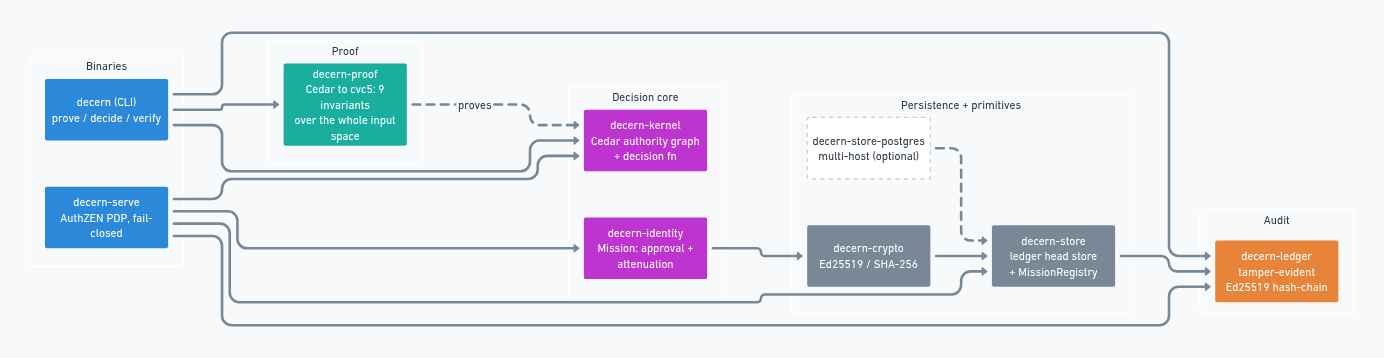
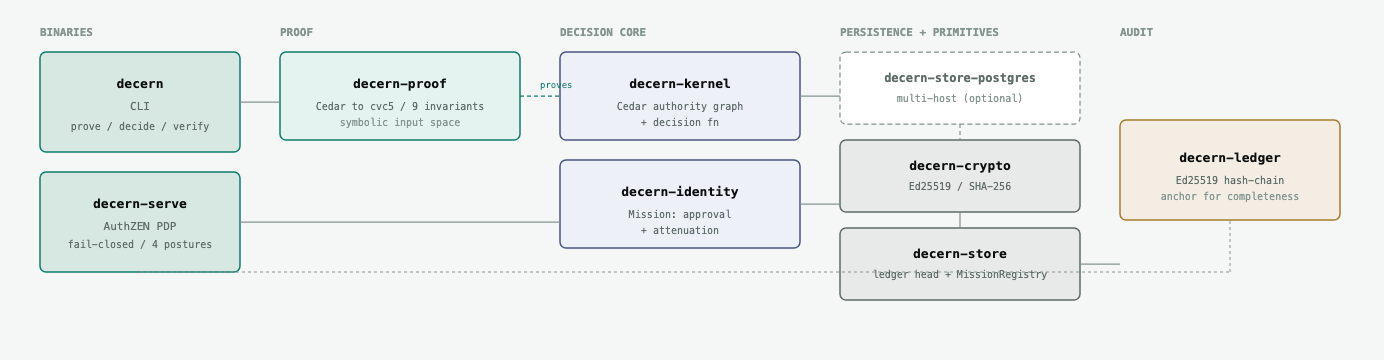
Ship the corrected diagrams, and stop the site overclaiming (#127)
* Ship the corrected diagrams, and stop the site overclaiming

The regenerated diagrams were sitting uncommitted, so README,
ARCHITECTURE.md and the site were all still serving the two-posture
versions from before signed-request, SPIFFE and caller binding landed. Both
PNGs go in, and so do the SVG sources they are drawn from -- commit abc5854
gave the architecture diagram an editable source for a reason, and an
untracked source is one stray checkout from being a hand-tuned PNG again.

The diagrams now show four postures, that one is required to start and two
is a startup failure, the 401/403 split with caller_mismatch and the
workload self-bind, that the nine invariants cover the model rather than
the server, and that a chain proves consistency while --anchor is what
detects a dropped tail. Alt text follows.

The website carried two claims the 0.3.0 notes contradict, in one hero
paragraph: safety rules checked against "every possible input", and that
anyone can verify "nothing was changed or removed". The first drops both
qualifiers -- the proofs are over the model's symbolic input space, with
two invariants reasoning over attributes the kernel derives before the
prover runs. The second is the anchor claim: a chain is internally
consistent, and detecting a dropped tail needs a commitment published
somewhere the operator does not control. Also fixed in the meta
description, which is what a search result quotes, and in two more places
in the body copy.
[…]

diff --git a/docs/index.html b/docs/index.html
@@ -12,7 +12,7 @@
   gtag('config', 'G-RZ3DJS6EF5');
 </script>
 <title>decern — proven authorization for agents</title>
-<meta name="description" content="A deterministic authorization kernel for agents, people and services. Nine safety invariants are machine-checked by cvc5 over every possible input; every decision is recorded in a tamper-evident, verifiable ledger. Pure Rust, Apache-2.0.">
+<meta name="description" content="A deterministic authorization kernel for agents, people and services. Nine safety invariants are machine-checked by cvc5 over the model's whole symbolic input space; every decision is recorded in a signed, hash-chained ledger anyone can verify. Pure Rust, Apache-2.0.">
 <meta name="author" content="Anivar A. Aravind">
 <link rel="canonical" href="https://decern.anivar.net/">
 <link rel="icon" type="image/svg+xml" href="img/decern-mark.svg">
@@ -185,7 +185,7 @@
         <hr style="border:0;border-top:1px solid #0E7C6B;width:32px;margin:18px 0 0">
         <h1 style="font:600 clamp(52px,8.5vw,82px)/0.98 'IBM Plex Mono',monospace;letter-spacing:-0.03em;color:#0C0F0E;margin:24px 0 0">decern</h1>
         <p style="font:500 clamp(25px,3.2vw,35px)/1.18 Newsreader,serif;letter-spacing:-0.01em;color:#0C0F0E;margin:24px 0 0;max-width:28ch;text-wrap:pretty">Decide what an agent, a person or a service is allowed to do. Keep proof of every answer.</p>
-        <p style="font:400 17px/1.62 'IBM Plex Sans',sans-serif;color:#5E6B67;margin:22px 0 0;max-width:60ch;text-wrap:pretty">Three things set it apart. A solver checks the safety rules against every possible input, instead of the handful a test file covers. Every answer goes into a signed, linked log, so anyone can check later that nothing was changed or removed — including people who don't trust whoever ran the server. And nothing gets decided for an unverified caller: the server refuses to start until it can name who is asking.</p>
+        <p style="font:400 17px/1.62 'IBM Plex Sans',sans-serif;color:#5E6B67;margin:22px 0 0;max-width:60ch;text-wrap:pretty">Three things set it apart. A solver checks the safety rules across the model's symbolic input space, instead of the handful a test file covers. Every answer goes into a signed, linked log, so anyone can check later that no record was altered — and, against a commitment you published elsewhere, that none was dropped. And nothing gets decided for an unverified caller: the server refuses to start until one of four postures can name who is asking.</p>
         <div style="display:flex;gap:12px;flex-wrap:wrap;margin-top:34px">
           <a href="https://github.com/anivar/decern" style="display:inline-flex;align-items:center;gap:10px;background:#0E7C6B;color:#FFFFFF;border:1px solid #0E7C6B;padding:12px 20px;font:500 14px/1 'IBM Plex Sans',sans-serif;text-decoration:none" style-hover="background:#0A5B4E;border-color:#0A5B4E"><svg width="17" height="17" viewBox="0 0 16 16" fill="currentColor" aria-hidden="true" style="display:block"><path d="M8 0C3.58 0 0 3.58 0 8c0 3.54 2.29 6.53 5.47 7.59.4.07.55-.17.55-.38 0-.19-.01-.82-.01-1.49-2.01.37-2.53-.49-2.69-.94-.09-.23-.48-.94-.82-1.13-.28-.15-.68-.52-.01-.53.63-.01 1.08.58 1.23.82.72 1.21 1.87.87 2.33.66.07-.52.28-.87.51-1.07-1.78-.2-3.64-.89-3.64-3.95 0-.87.31-1.59.82-2.15-.08-.2-.36-1.02.08-2.12 0 0 .67-.21 2.2.82a7.42 7.42 0 0 1 2-.27c.68 0 1.36.09 2 .27 1.53-1.04 2.2-.82 2.2-.82.44 1.1.16 1.92.08 2.12.51.56.82 1.27.82 2.15 0 3.07-1.87 3.75-3.65 3.95.29.25.54.73.54 1.48 0 1.07-.01 1.93-.01 2.2 0 .21.15.46.55.38A7.995 7.995 0 0 0 16 8c0-4.42-3.58-8-8-8Z"></path></svg>Contribute on GitHub</a>
           <a href="#contribute" style="display:inline-flex;align-items:center;background:transparent;color:#0C0F0E;border:1px solid #0C0F0E;padding:12px 20px;font:500 14px/1 'IBM Plex Sans',sans-serif;text-decoration:none" style-hover="background:#0C0F0E;color:#F5F7F6">Where to start</a>
@@ -258,7 +258,7 @@
           <article style="border:1px solid #0C0F0E;background:#FFFFFF;padding:32px">
             <p style="font:500 10px/1 'IBM Plex Mono',monospace;letter-spacing:0.14em;text-transform:uppercase;color:#0E7C6B;margin:0">01 · Proven, not tested</p>
             <h3 style="font:600 20px/1.3 'IBM Plex Sans',sans-serif;color:#0C0F0E;margin:16px 0 0">A solver checks every case, not a few</h3>
-            <p style="font:400 15px/1.62 'IBM Plex Sans',sans-serif;color:#5E6B67;margin:14px 0 0;text-wrap:pretty">An answer depends on four things only: who is asking, what authority exists, the policy, and the time. Because it is that contained, cvc5 can search every possible input for one that breaks a rule. Nine rules are checked this way. Green means it found nothing.</p>
+            <p style="font:400 15px/1.62 'IBM Plex Sans',sans-serif;color:#5E6B67;margin:14px 0 0;text-wrap:pretty">An answer depends on four things only: who is asking, what authority exists, the policy, and the time. Because it is that contained, cvc5 can search the model's symbolic input space for one that breaks a rule. Nine rules are checked this way, over the policy rather than the running server. Green means it found nothing.</p>
             <hr style="border:0;border-top:1px solid #0E7C6B;width:32px;margin:26px 0 0">
             <p style="font:400 11px/1.6 'IBM Plex Mono',monospace;letter-spacing:0.04em;color:#849490;margin:14px 0 0">decern-proof · runs in <span style="color:#5E6B67">decern prove</span> and CI only, never on the request path</p>
           </article>
@@ -272,7 +272,7 @@
           <article style="border:1px solid #0C0F0E;background:#FFFFFF;padding:32px">
             <p style="font:500 10px/1 'IBM Plex Mono',monospace;letter-spacing:0.14em;text-transform:uppercase;color:#0E7C6B;margin:0">03 · Known, not assumed</p>
             <h3 style="font:600 20px/1.3 'IBM Plex Sans',sans-serif;color:#0C0F0E;margin:16px 0 0">Refuses to answer an unverified caller</h3>
-            <p style="font:400 15px/1.62 'IBM Plex Sans',sans-serif;color:#5E6B67;margin:14px 0 0;text-wrap:pretty">Before evaluating anything, decern-serve establishes who is asking — a valid bearer token, or a declared, authenticated front taking responsibility for what it asserts. There is no default identity, and no way to start the server without naming one. The verified caller is written onto the decision record itself, not inferred afterwards.</p>
+            <p style="font:400 15px/1.62 'IBM Plex Sans',sans-serif;color:#5E6B67;margin:14px 0 0;text-wrap:pretty">Before evaluating anything, decern-serve establishes who is asking — a bearer token, a signed request, a SPIFFE identity, or a declared authenticated front taking responsibility for what it asserts. There is no default identity, and no way to start the server without naming one. The two workload postures go further: unless exempted, such a caller may only name itself. The verified caller is written onto the decision record itself, not inferred afterwards.</p>
             <hr style="border:0;border-top:1px solid #0E7C6B;width:32px;margin:26px 0 0">
             <p style="font:400 11px/1.6 'IBM Plex Mono',monospace;letter-spacing:0.04em;color:#849490;margin:14px 0 0">decern-server · RFC 9068 bearer validation · asserted_by on every record</p>
           </article>
@@ -356,7 +356,7 @@
       <div style="border-top:1px solid #0C0F0E;padding-top:44px">
         <p style="font:500 12px/1 'IBM Plex Mono',monospace;letter-spacing:0.12em;text-transform:uppercase;color:#5E6B67;margin:0">Rules</p>
         <hr style="border:0;border-top:1px solid #0E7C6B;width:32px;margin:18px 0 0">
-        <h2 style="font:600 clamp(23px,2.7vw,31px)/1.24 'IBM Plex Sans',sans-serif;letter-spacing:-0.01em;color:#0C0F0E;margin:22px 0 0">Nine rules, checked against every possible input.</h2>
+        <h2 style="font:600 clamp(23px,2.7vw,31px)/1.24 'IBM Plex Sans',sans-serif;letter-spacing:-0.01em;color:#0C0F0E;margin:22px 0 0">Nine rules, checked across the model's symbolic input space.</h2>
         <p style="font:400 16px/1.64 'IBM Plex Sans',sans-serif;color:#5E6B67;margin:18px 0 0;max-width:64ch;text-wrap:pretty">Each line says exactly what the solver checked — never more.</p>
 
         <table style="width:100%;margin-top:34px;border-top:1px solid #0C0F0E">
@@ -416,7 +416,7 @@
           </div>
           <div style="border:1px solid #E1E7E4;background:#EDF3F1;padding:26px">
             <p style="font:500 10px/1 'IBM Plex Mono',monospace;letter-spacing:0.14em;text-transform:uppercase;color:#5E6B67;margin:0">What it does not prove</p>
-            <p style="font:400 14.5px/1.62 'IBM Plex Sans',sans-serif;color:#0C0F0E;margin:14px 0 0;text-wrap:pretty">cvc5 proves the kernel's rules. It cannot tell whether your policy says what you meant, and it is never a claim that a deployment is secure — the deciding endpoints validate RFC 9068 bearer tokens when configured, or run behind a declared authenticating front; the server refuses to start with neither stated. Where a rule leans on a derived value, that part is ordinary tested Rust and is written up as such. The full boundary lives in the repository, under <a href="https://github.com/anivar/decern#known-limitations">known limitations ↗</a>.</p>
+            <p style="font:400 14.5px/1.62 'IBM Plex Sans',sans-serif;color:#0C0F0E;margin:14px 0 0;text-wrap:pretty">cvc5 proves the kernel's rules. It cannot tell whether your policy says what you meant, and it is never a claim that a deployment is secure — the deciding endpoints validate RFC 9068 bearer tokens, signed requests or SPIFFE identities when configured, or run behind a declared authenticating front; the server refuses to start with none stated. Where a rule leans on a derived value, that part is ordinary tested Rust and is written up as such. The full boundary lives in the repository, under <a href="https://github.com/anivar/decern/blob/main/CHANGELOG.md#known-limits-in-this-release">known limits in this release ↗</a>.</p>
           </div>
         </div>
       </div>
@@ -435,7 +435,7 @@
           <div style="padding:24px 20px;border-right:1px solid #0C0F0E;background:#FFFFFF">
             <p style="font:400 11px/1 'IBM Plex Mono',monospace;letter-spacing:0.1em;color:#849490;margin:0">01</p>
             <p style="font:600 15px/1.32 'IBM Plex Sans',sans-serif;color:#0C0F0E;margin:14px 0 0">Ask</p>
-            <p style="font:400 13px/1.55 'IBM Plex Sans',sans-serif;color:#5E6B67;margin:8px 0 0">A request arrives at <span style="font-family:'IBM Plex Mono',monospace;font-size:12px">decern-serve</span>, and the caller is established first — a verified token, or the declared front.</p>
+            <p style="font:400 13px/1.55 'IBM Plex Sans',sans-serif;color:#5E6B67;margin:8px 0 0">A request arrives at <span style="font-family:'IBM Plex Mono',monospace;font-size:12px">decern-serve</span>, and the caller is established first — bearer, signed request, SPIFFE, or a declared front.</p>
           </div>
           <div style="padding:24px 20px;border-right:1px solid #0C0F0E;background:#FFFFFF">
             <p style="font:400 11px/1 'IBM Plex Mono',monospace;letter-spacing:0.1em;color:#849490;margin:0">02</p>
@@ -455,14 +455,14 @@
           <div style="padding:24px 20px;background:#EDF3F1">
             <p style="font:400 11px/1 'IBM Plex Mono',monospace;letter-spacing:0.1em;color:#849490;margin:0">05</p>
             <p style="font:600 15px/1.32 'IBM Plex Sans',sans-serif;color:#0C0F0E;margin:14px 0 0">Verify</p>
-            <p style="font:400 13px/1.55 'IBM Plex Sans',sans-serif;color:#5E6B67;margin:8px 0 0">Anyone can re-check the links and signatures later, offline.</p>
+            <p style="font:400 13px/1.55 'IBM Plex Sans',sans-serif;color:#5E6B67;margin:8px 0 0">Anyone can re-check the links and signatures later, offline — and, with <span style="font-family:'IBM Plex Mono',monospace;font-size:12px">--anchor</span>, that nothing was dropped.</p>
           </div>
         </div>
 
         <div style="display:grid;grid-template-columns:minmax(0,1fr) 296px;gap:44px;margin-top:28px;align-items:start">
           
             <figure style="margin:0;border:1px solid #0C0F0E;background:#FFFFFF;padding:24px">
-              <img src="img/decision-flow.png" alt="decern decision flow: the caller is established, the proven kernel evaluates, the decision is recorded to the tamper-evident ledger, and it is served with 200 only when the record was written, else 503; an unestablished caller is refused before evaluation" style="display:block;width:100%;height:auto">
+              <img src="img/decision-flow.png" alt="decern decision flow: one of four postures establishes the caller, the proven kernel evaluates, the decision is recorded to the tamper-evident ledger, and it is served with 200 only when the record was written, else 503; an unestablished caller is refused before evaluation" style="display:block;width:100%;height:auto">
             </figure>
           
           <div>
@@ -623,7 +623,7 @@
 
         
           <figure style="margin:34px 0 0;border:1px solid #0C0F0E;background:#FFFFFF;padding:30px">
-            <img src="img/architecture.png" alt="decern architecture: the decern and decern-serve binaries over the kernel, identity, proof, ledger, store, and crypto crates" style="display:block;width:100%;height:auto">
+            <img src="img/architecture.png" alt="decern architecture: decern and decern-serve (four postures) over the kernel, identity, proof, ledger, store, and crypto crates" style="display:block;width:100%;height:auto">
             <figcaption style="font:400 11px/1.6 'IBM Plex Mono',monospace;letter-spacing:0.04em;color:#849490;margin:22px 0 0">Crate topology, as shipped in the repository.</figcaption>
           </figure>
         
@@ -717,7 +717,7 @@
         </div>
 
         <div style="background:#0E1513;border:1px solid #0E1513;padding:28px 30px;margin-top:28px;overflow-x:auto;font:400 13px/1.95 'IBM Plex Mono',monospace;color:#EAF0ED">
-          <div style="color:#5F8F83">&#35; 1 · prove all invariants hold over every input (cvc5)</div>
+          <div style="color:#5F8F83">&#35; 1 · prove every invariant over the model's input space (cvc5)</div>
           <div><span style="color:#34C6AB">decern</span> prove</div>
           <div style="height:19px"></div>
           <div style="color:#5F8F83">&#35; 2 · run the PDP (writes a tamper-evident ledger)</div>
@@ -739,7 +739,7 @@
           <div style="padding:24px;border-right:1px solid #0C0F0E;background:#FFFFFF">
             <p style="font:500 10px/1 'IBM Plex Mono',monospace;letter-spacing:0.14em;text-transform:uppercase;color:#5E6B67;margin:0">Sovereign · one process</p>
             <p style="font:500 13px/1.5 'IBM Plex Mono',monospace;color:#0E7C6B;margin:14px 0 0">--ledger &lt;PATH&gt;</p>
-            <p style="font:400 13.5px/1.6 'IBM Plex Sans',sans-serif;color:#5E6B67;margin:10px 0 0">One ledger file. Binds loopback by default; starting requires the caller posture to be named — bearer validation, or a declared front.</p>
+            <p style="font:400 13.5px/1.6 'IBM Plex Sans',sans-serif;color:#5E6B67;margin:10px 0 0">One ledger file. Binds loopback by default; starting requires the caller posture to be named — bearer, signed request, SPIFFE, or a declared front.</p>
           </div>
           <div style="padding:24px;border-right:1px solid #0C0F0E;background:#FFFFFF">
             <p style="font:500 10px/1 'IBM Plex Mono',monospace;letter-spacing:0.14em;text-transform:uppercase;color:#5E6B67;margin:0">Hosted · one host</p>
@@ -804,7 +804,7 @@
         <a href="https://github.com/anivar/decern/blob/main/ROADMAP.md" style="font:400 13px/1.6 'IBM Plex Mono',monospace">Roadmap</a>
         <a href="https://github.com/anivar/decern/blob/main/ADOPTERS.md" style="font:400 13px/1.6 'IBM Plex Mono',monospace">Adopters</a>
         <a href="https://github.com/anivar/decern/blob/main/GOVERNANCE.md" style="font:400 13px/1.6 'IBM Plex Mono',monospace">Governance</a>
-        <a href="https://github.com/anivar/decern#known-limitations" style="font:400 13px/1.6 'IBM Plex Mono',monospace">Limitations</a>
+        <a href="https://github.com/anivar/decern/blob/main/CHANGELOG.md#known-limits-in-this-release" style="font:400 13px/1.6 'IBM Plex Mono',monospace">Limitations</a>
         <a href="https://github.com/anivar/decern/blob/main/CHANGELOG.md" style="font:400 13px/1.6 'IBM Plex Mono',monospace">Changelog</a>
       </div>
     </div>

diff --git a/README.md b/README.md
@@ -46,7 +46,7 @@ signed binaries for Linux (x64/arm64), macOS (Apple Silicon) and Windows (x64) a
 **cvc5** solver on `PATH`; serving answers does not.
 
 ```sh
-# 1. Prove all invariants hold over every input (cvc5)
+# 1. Prove every invariant over the model's input space (cvc5)
 decern prove
 
 # 2. Run the PDP (writes a tamper-evident ledger); this walkthrough is its own caller
@@ -97,7 +97,7 @@ Every decision lands in an append-only, Ed25519-signed, hash-chained ledger, and
 **only if its record was written** — an unrecordable decision returns 503, never a bare
 allow. A crash-torn tail heals; truncating committed history is detected.
 
-<p align="center"><img src="docs/img/decision-flow.png" alt="decern decision flow: the caller is established, the proven kernel evaluates, the decision is recorded to the tamper-evident ledger, and it is served with 200 only when the record was written, else 503; an unestablished caller is refused before evaluation" width="900"></p> Here an
+<p align="center"><img src="docs/img/decision-flow.png" alt="decern decision flow: one of four postures establishes the caller, the proven kernel evaluates, the decision is recorded to the tamper-evident ledger, and it is served with 200 only when the record was written, else 503; an unestablished caller is refused before evaluation" width="900"></p> Here an
 unrecognized caller is refused a `MoveMoney` — the money-gate forbid fires by name, no
 `sponsor` is derived for a caller the directory does not know, the exact request is
 digest-bound, and `prev` is the chain link:
@@ -192,15 +192,24 @@ with `decern verify --sharded`.
 Two binaries over seven small crates: a proven decision core, an SMT proof harness, a
 tamper-evident ledger, and pure-Rust persistence and primitives.
 
-<p align="center"><img src="docs/img/architecture.png" alt="decern architecture: decern and decern-serve binaries over the kernel, identity, proof, ledger, store, and crypto crates" width="860"></p>
+<p align="center"><img src="docs/img/architecture.png" alt="decern architecture: decern and decern-serve (four postures) over the kernel, identity, proof, ledger, store, and crypto crates" width="860"></p>
 
 ## Known limitations
 
-- **Bearer validation establishes the caller, not the content.** The mission `approver` is
-  a request-body field the verified caller vouches for; `--require-mission` is what makes
-  decision approval server-derived. `/audit/v1/subject` stays outside the guard on purpose
-  — the party a decision was about holds no credential here — so treat handles as secrets
-  and rate-limit that route at whatever fronts the server.
+The list below is the standing set. Each release also states what it does **not** claim —
+see [Known limits in 0.3.0](CHANGELOG.md#known-limits-in-this-release), which covers
+consent, log pinning, `--trust-proxy`, replay, and what the proofs actually cover.
+
+- **How far a credential constrains the content depends on the posture.** Under bearer
+  validation and `--trust-proxy` it does not: the mission `approver` is a request-body
+  field the verified caller vouches for, and the decision subject is not taken from the
+  credential, because a gateway legitimately asks about other parties. Under the two
+  *workload* postures (`--signed-agent-key`, `--spiffe-trust-domain`) the caller may only
+  name itself, unless listed in `--pep`. So a bearer token issued to a workload carries no
+  such bind. `--require-mission` is what makes decision approval server-derived.
+  `/audit/v1/subject` stays outside the guard on purpose — the party a decision was about
+  holds no credential here — so treat handles as secrets and rate-limit that route at
+  whatever fronts the server.
 - **`FileLedgerHeadStore` is single-host.** The sharded ledger's reference backend uses an
   exclusive `flock` per shard: correct multi-process exclusion on one host (Unix only), not
   a distributed store. Multi-host deployments use the Postgres head store instead.

diff --git a/ARCHITECTURE.md b/ARCHITECTURE.md
@@ -12,7 +12,7 @@ A map of decern for contributors — human or agent. If you're here to pick some
 per-crate table below tells you *where* things live, and [CONTRIBUTING.md](CONTRIBUTING.md) tells
 you *how* to land a change.
 
-<p align="center"><img src="docs/img/architecture.png" alt="decern architecture: the decern and decern-serve binaries over the kernel, identity, proof, ledger, store, and crypto crates" width="860"></p>
+<p align="center"><img src="docs/img/architecture.png" alt="decern architecture: decern and decern-serve (four postures) over the kernel, identity, proof, ledger, store, and crypto crates" width="860"></p>
 
 ## The shape
 

diff --git a/docs/CLI.md b/docs/CLI.md
@@ -291,7 +291,7 @@ secrets, and rate-limit this route at whatever fronts the server.
 ## A full loop
 
 ```sh
-# 1. prove the invariants hold over every input
+# 1. prove every invariant over the model's input space
 decern prove
 
 # 2. run the PDP; this walkthrough is its own caller, so say so
